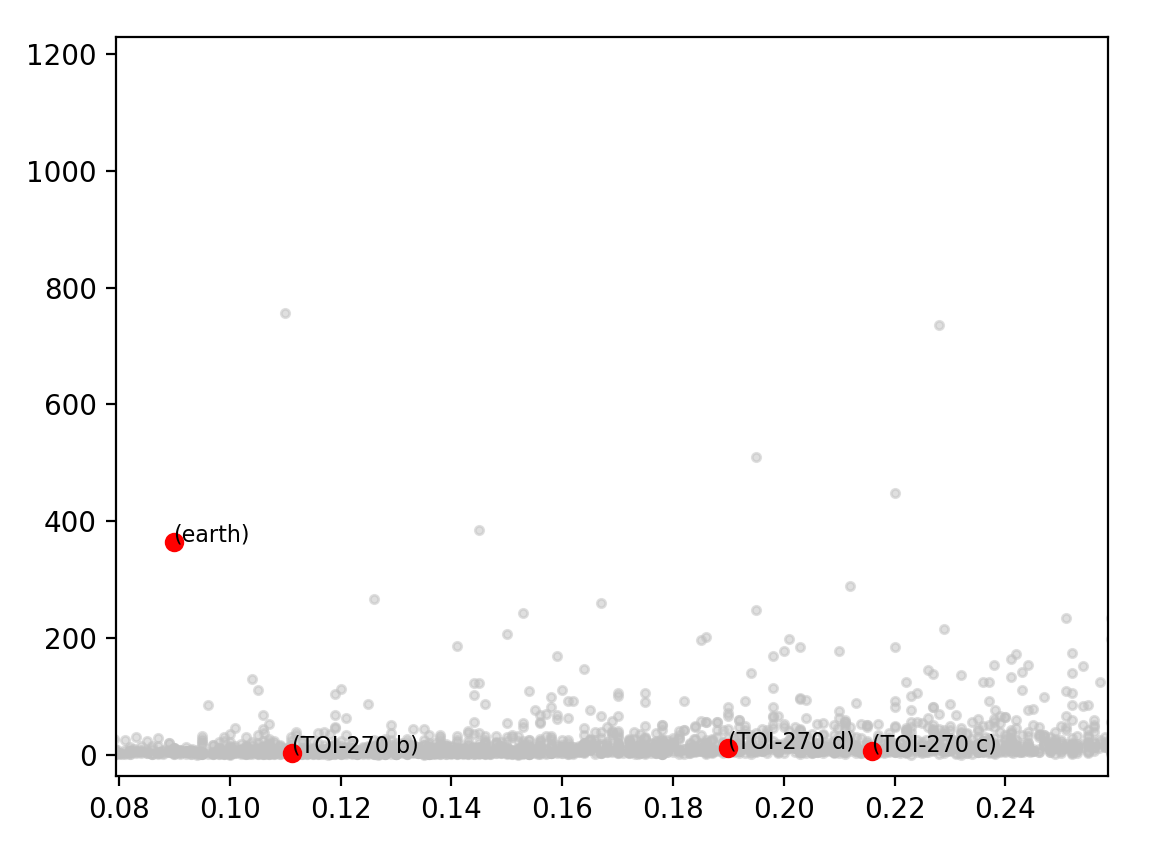
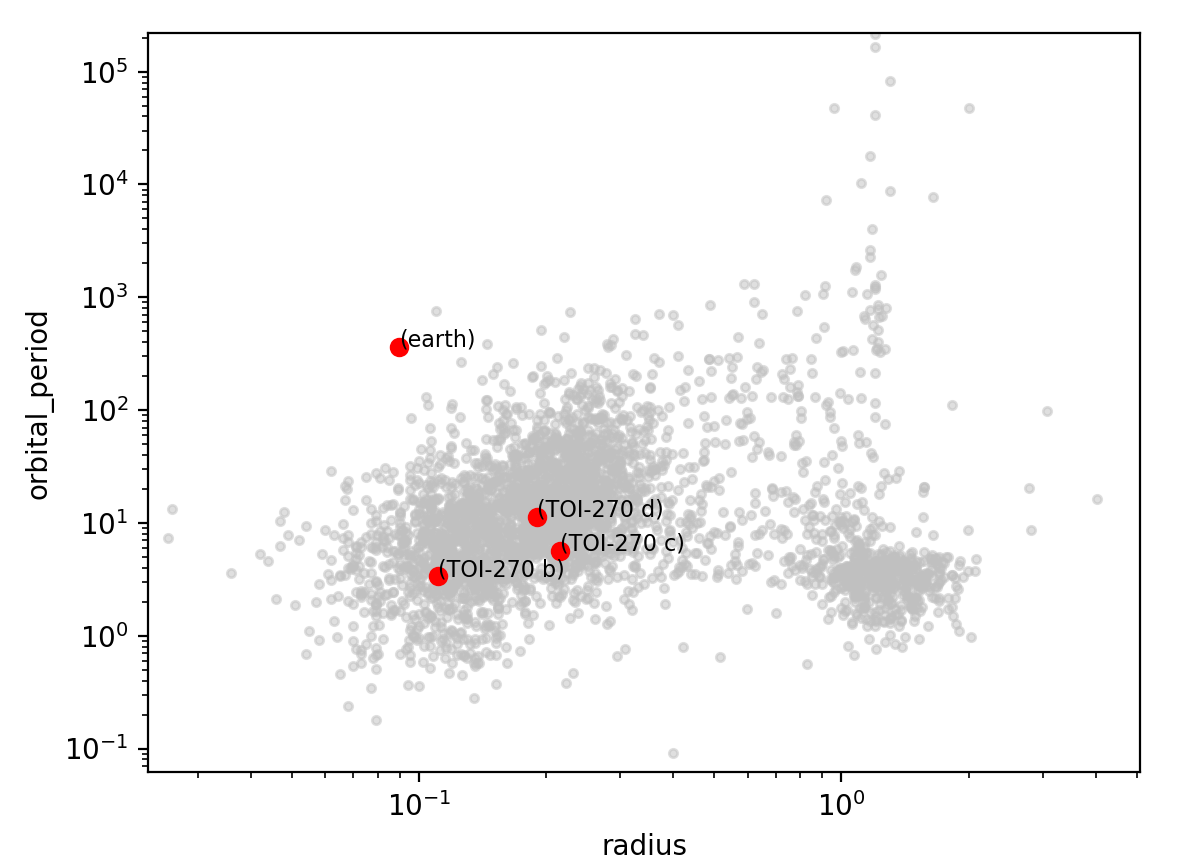
astep

Changed region(s): [[0.0, 0.0307, 0.9604, 1.0], [0.6196, 0.3073, 0.6816, 0.3688], [0.5886, 0.7376, 0.6196, 0.7683]]

diff --git a/content/docs/python/pages/traitement/page3.md b/content/docs/python/pages/traitement/page3.md
@@ -237,30 +237,33 @@ df
 %matplotlib qt
 plt.clf()
 axes = plt.gca()
-"""nuage de points df0 issu de la BDD
+"""nuage de points df issu de la BDD
 """
-x = df0['radius']
-y = df0['orbital_period']
-z = df0['_name']
+x = df['radius']
+y = df['orbital_period']
+z = df['_name']
 plt.scatter(x,y,color='silver',marker='.',alpha=0.5)
 
 
    
-"""nuage de points df issu des observations
+"""nuage de points df_p issu des observations
 """
-x_p = df['radius']
-y_p = df['T_jours']
-z_p = df['planete']
+x_p = df_p['radius']
+y_p = df_p['orbital_period']
+z_p = df_p['_name']
 
 plt.scatter(x_p,y_p,color='red',marker='o',label='Rho')
 for x, y, z in zip(x_p, y_p, z_p):
     axes.text(x, y, f"({z})", fontsize=8)
-
+plt.xscale('log')
+plt.yscale('log')
+plt.xlabel('radius')
+plt.ylabel('orbital_period')
 cursor = Cursor(axes, useblit=True, color='red', linewidth=2)
 plt.show()
 ```
 
-{{< img src="../images/df15.png" >}}
+{{< img src="../images/exemple_graphique.png" caption="orbital_period vs radius en echelle log" >}}
 
 ## Partager la fenêtre graphique en plusieurs graphiques
 
@@ -275,10 +278,8 @@ y = 'orbital_period'
 plt.scatter(dataset[x],dataset[y], marker="o", s=25)
 plt.xlabel(x)
 plt.ylabel(y)
-plt.title(
-    "Comp. 1: {} vs {} (test corr = {})".format(x,y,round(corr[x][y],3))
-    
-)
+#plt.xscale('log')
+#plt.yscale('log')
 plt.xticks(())
 plt.yticks(())
 #plt.legend(loc="best")
@@ -290,10 +291,8 @@ y = 'orbital_period'
 plt.scatter(dataset[x],dataset[y], marker="o", s=25)
 plt.xlabel(x)
 plt.ylabel(y)
-plt.title(
-    "Comp. 1: {} vs {} (test corr = {})".format(x,y,round(corr[x][y],3))
-    
-)
+#plt.xscale('log')
+#plt.yscale('log')
 plt.xticks(())
 plt.yticks(())
 
@@ -305,10 +304,8 @@ y = 'orbital_period'
 plt.scatter(dataset[x],dataset[y], marker="o", s=25)
 plt.xlabel(x)
 plt.ylabel(y)
-plt.title(
-    "Comp. 1: {} vs {} (test corr = {})".format(x,y,round(corr[x][y],3))
-    
-)
+#plt.xscale('log')
+#plt.yscale('log')
 plt.xticks(())
 plt.yticks(())
 
@@ -318,10 +315,8 @@ y = 'orbital_period'
 plt.scatter(dataset[x],dataset[y], marker="o", s=25)
 plt.xlabel(x)
 plt.ylabel(y)
-plt.title(
-    "Comp. 1: {} vs {} (test corr = {})".format(x,y,round(corr[x][y],3))
-    
-)
+#plt.xscale('log')
+#plt.yscale('log')
 plt.xticks(())
 plt.yticks(())
 
@@ -333,7 +328,9 @@ plt.show()
 
 # Et maintenant...
 * Vous savez placer les nouvelles exoplanètes sur un graphique en nuage de points, au milieu des autres planètes de la base de données.
-* Vous savez sélectionner la représentation qui donnera le plus d'informations.
+* Vous savez sélectionner la représentation qui donnera le plus d'informations:
+
+{{< img src="../images/seaborn3.png" caption="exemple de représentations à partir de différents choix d'axes" >}}
 
 Une voie d'étude serait de rechercher des *clusters* (regroupements) de planètes pour certains choix d'axes, et d'associer nos exoplanètes à celles-ci.
 

diff --git a/content/docs/python/pages/traitement/page5.md b/content/docs/python/pages/traitement/page5.md
@@ -65,7 +65,7 @@ plt.show()
 On a vu [ici](../page3) une autre manière de partager la fenêtre graphique en plusieurs graphiques:
 
 
-{{< img src="../images/subplot.png" >}}
+{{< img src="../images/seaborn3.png" >}}
 
 ## Choix des axes du graphique
 Choisir des axes avec des données correlées.
@@ -86,7 +86,7 @@ df_p
 %matplotlib qt
 plt.clf()
 axes = plt.gca()
-"""nuage de points df0 issu de la BDD
+"""nuage de points df issu de la BDD
 """
 x = df['radius']
 y = df['orbital_period']
@@ -95,7 +95,7 @@ plt.scatter(x,y,color='silver',marker='.',alpha=0.5)
 
 
    
-"""nuage de points df issu des observations
+"""nuage de points df_p issu des observations
 """
 x_p = df_p['radius']
 y_p = df_p['orbital_period']
@@ -104,12 +104,13 @@ z_p = df_p['_name']
 plt.scatter(x_p,y_p,color='red',marker='o',label='Rho')
 for x, y, z in zip(x_p, y_p, z_p):
     axes.text(x, y, f"({z})", fontsize=8)
-
+plt.xscale('log')
+plt.yscale('log')
 cursor = Cursor(axes, useblit=True, color='red', linewidth=2)
 plt.show()
 ```
 
-{{< img src="../images/exemple_graphique.png" caption="orbital_period vs radius" >}}
+{{< img src="../images/exemple_graphique.png" caption="orbital_period vs radius en echelle log" >}}
 
 
 
